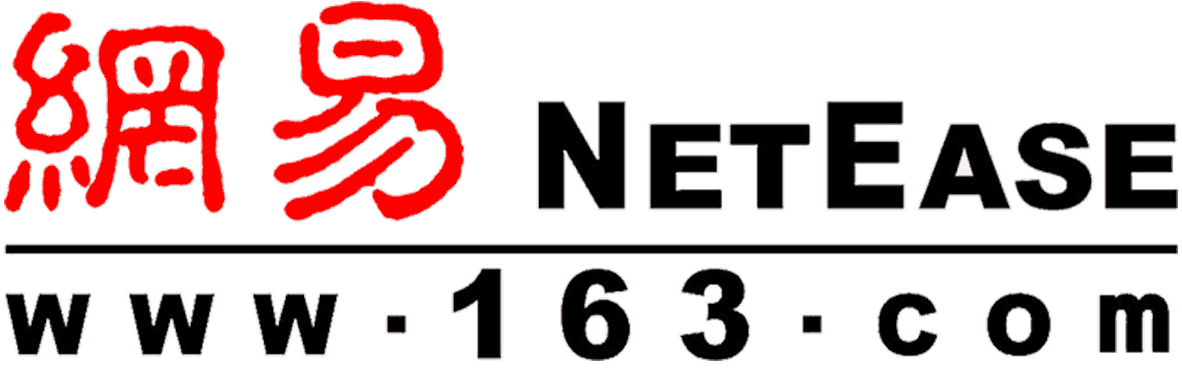
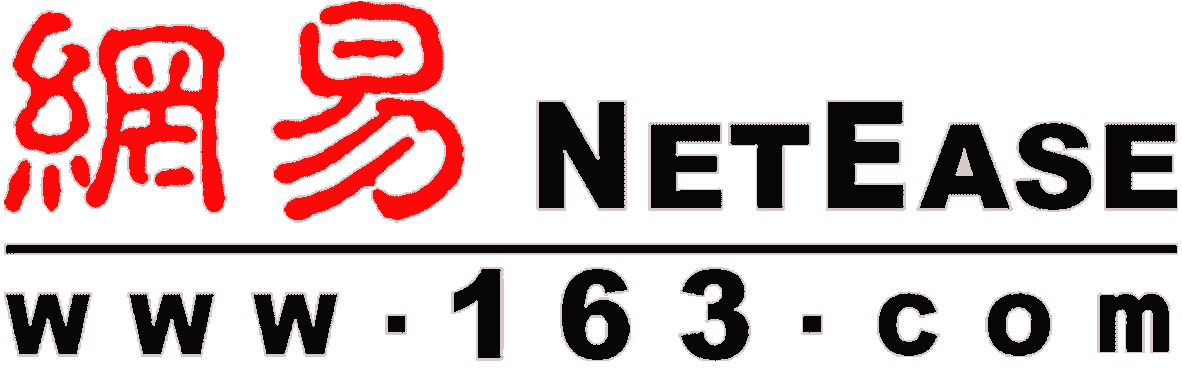
12-31 图片压缩

diff --git a/index.html b/index.html
@@ -628,6 +628,7 @@
 		<li><a href="http://gen.lib.rus.ec/" title="电子书丰富" target="_blank">Library</a></li>
 		<li><a href="http://gen.lib.rus.ec/" title="电子书丰富" target="_blank">Library</a></li>
 			<li class="xiaofenlei2">电子书</li>
+			<li><a href="http://cn.epubee.com/" target="_blank">Epubee</a></li>
 			<li><a href="http://www.touxianzhai.com" title="打造互联网上最大最全的电子书库！" target="_blank"><font color="#FF7F00">偷闲斋</font></a></li> 		
             <li><a href="http://www.bookask.com/" target="_blank">书问</a></li>
             <li><a href="https://www.jiumodiary.com/" target="_blank">鸠摩搜书</a></li>
@@ -1113,7 +1114,7 @@
 			 <li><a href="http://www.egouz.com/" target="_blank">国外网站大全</a></li>
 			<li><a href="http://youquhome.com/" target="_blank">有趣网址</a></li>
 			<li><a href="http://taoxiaozhong.com/dh" target="_blank">淘小众</a></li>
-			<li><a href="http://iloveyoulong.com" title="龙轩导航" target="_blank"><b>龙轩导航</b></a></li>
+			<li><a href="http://ilxdh.com/" title="龙轩导航" target="_blank"><b>龙轩导航</b></a></li>
 			<li><a href="http://www.soguge.com/" target="_blank">搜谷歌</a></li>
 		    <li><a href="http://www.henwenyi.com" title="小清新网址导航网站大全" target="_blank"><b>小清新</b></a></li>		   
             <li><a href="http://www.qicao.cn/" target="_blank">奇草导航</a></li>  
